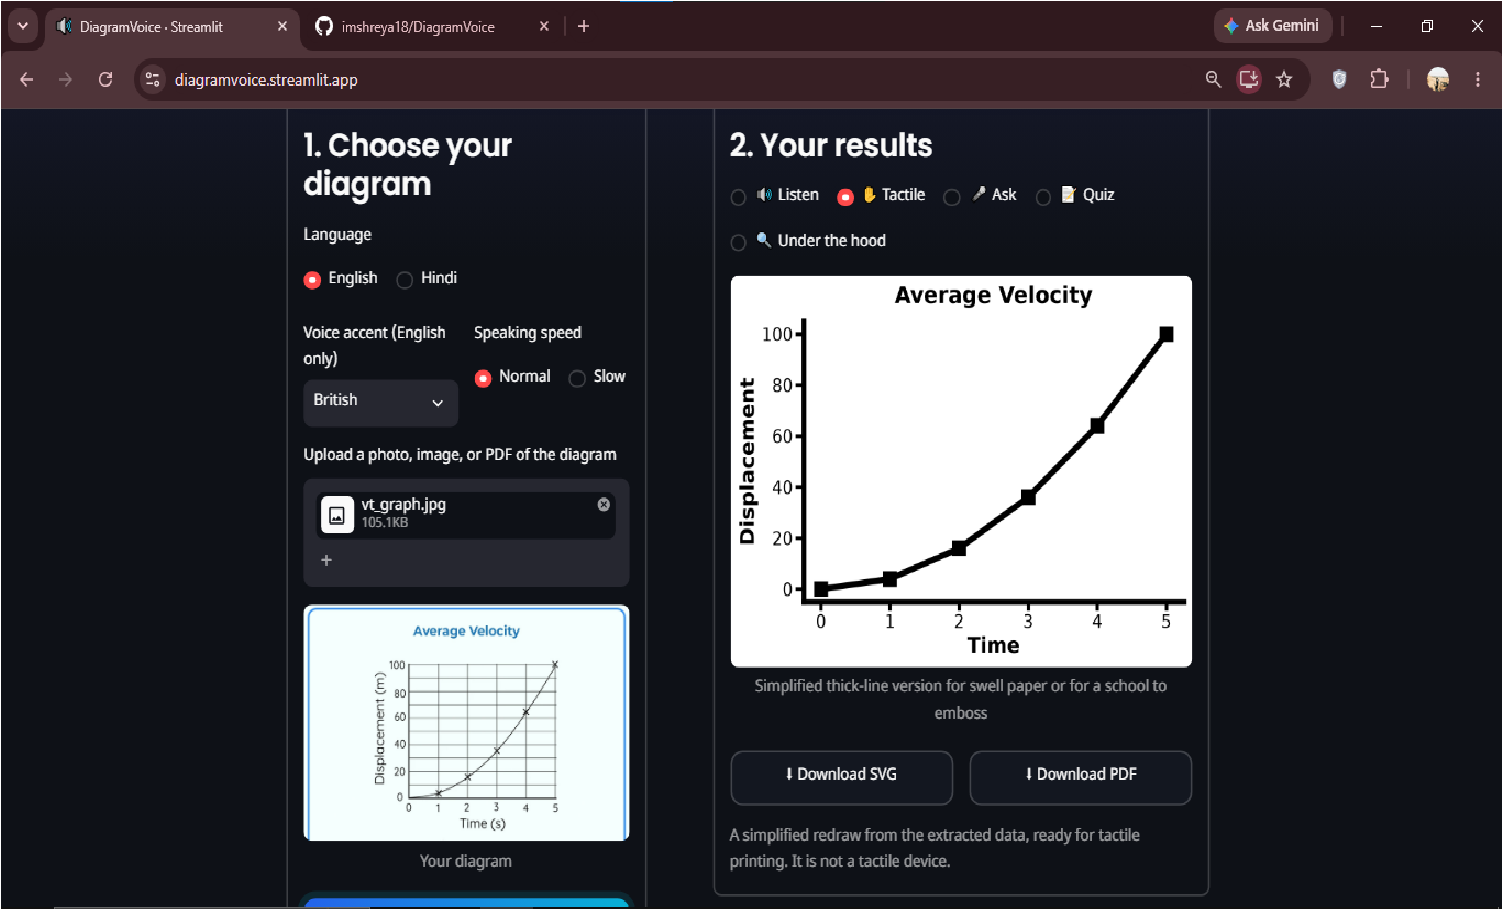
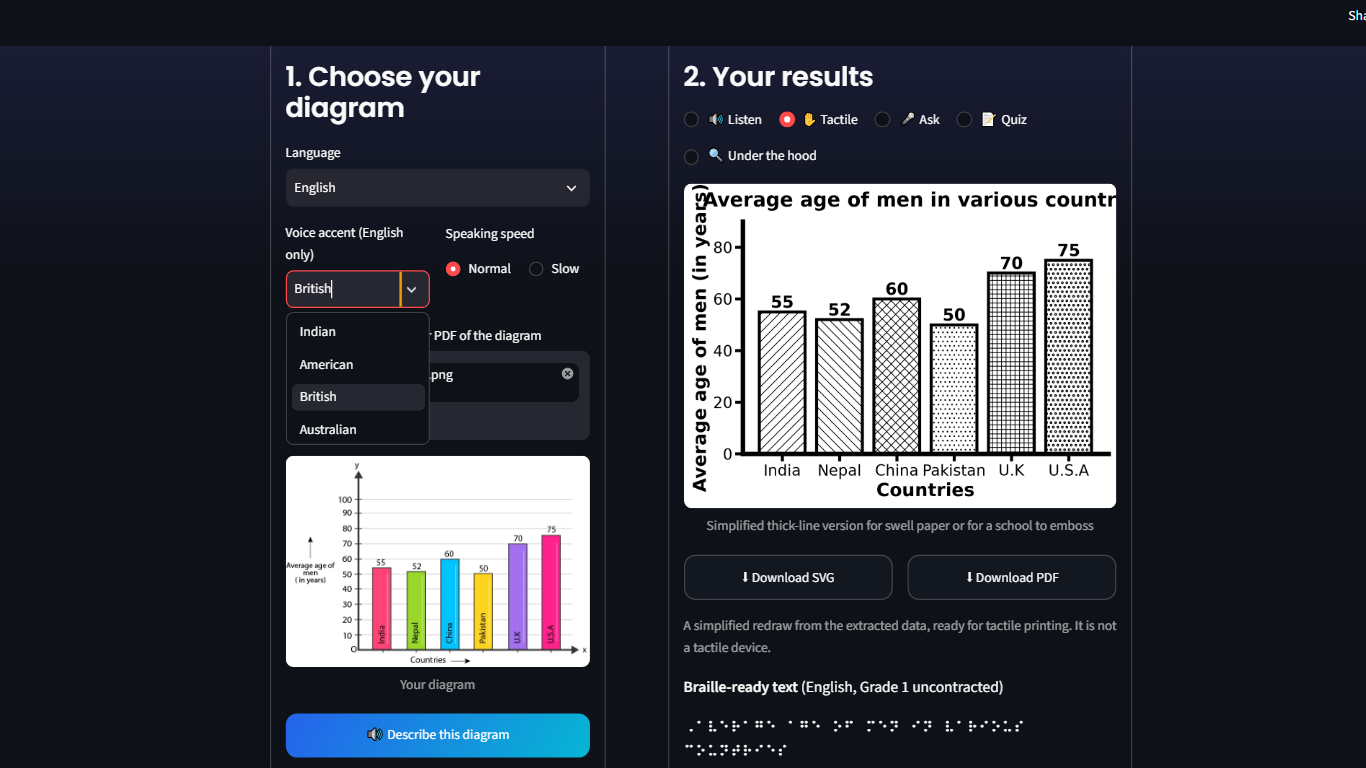
Add screenshots

diff --git a/README.md b/README.md
@@ -10,6 +10,8 @@
 ![Listen](screenshots/main.png)
 ![Tactile export](screenshots/tactile.png)
 ![Voice Q&A](screenshots/ask.png)
+![braille section](screenshots/braille.png)
+![multi-indian language](screenshots/multi_lang.png)
 <!-- Add 1-2 screenshots to a /screenshots folder: the description + audio, and voice Q&A -->
 
 ---
